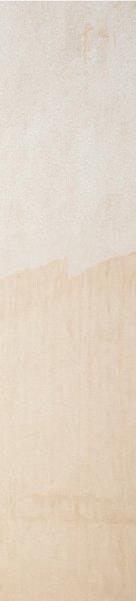
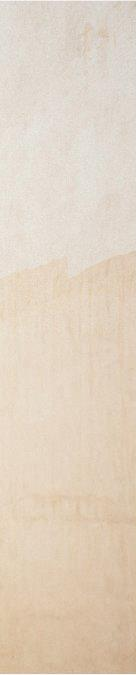
Update clean full-height peek image and offset from latest reference screenshot

diff --git a/index.html b/index.html
@@ -2151,7 +2151,7 @@ button, input, textarea, select {
    ========================================================================== */
 #insights {
   background-color: #ffffff;
-  padding: 0 0 60px 0;
+  padding: 0 0 80px 0;
   overflow: hidden;
   position: relative;
   width: 100%;
@@ -2170,7 +2170,7 @@ button, input, textarea, select {
 
 .insights-visuals {
   display: flex;
-  align-items: flex-end;
+  align-items: flex-start;
   gap: 16px;
   flex: 0 0 auto;
   margin-left: 0;
@@ -2178,7 +2178,8 @@ button, input, textarea, select {
 
 .insights-img-peek {
   width: 136px;
-  height: 601px;
+  height: 675px;
+  margin-top: 59px;
   flex-shrink: 0;
   overflow: hidden;
   background-color: #f7f7f7;
